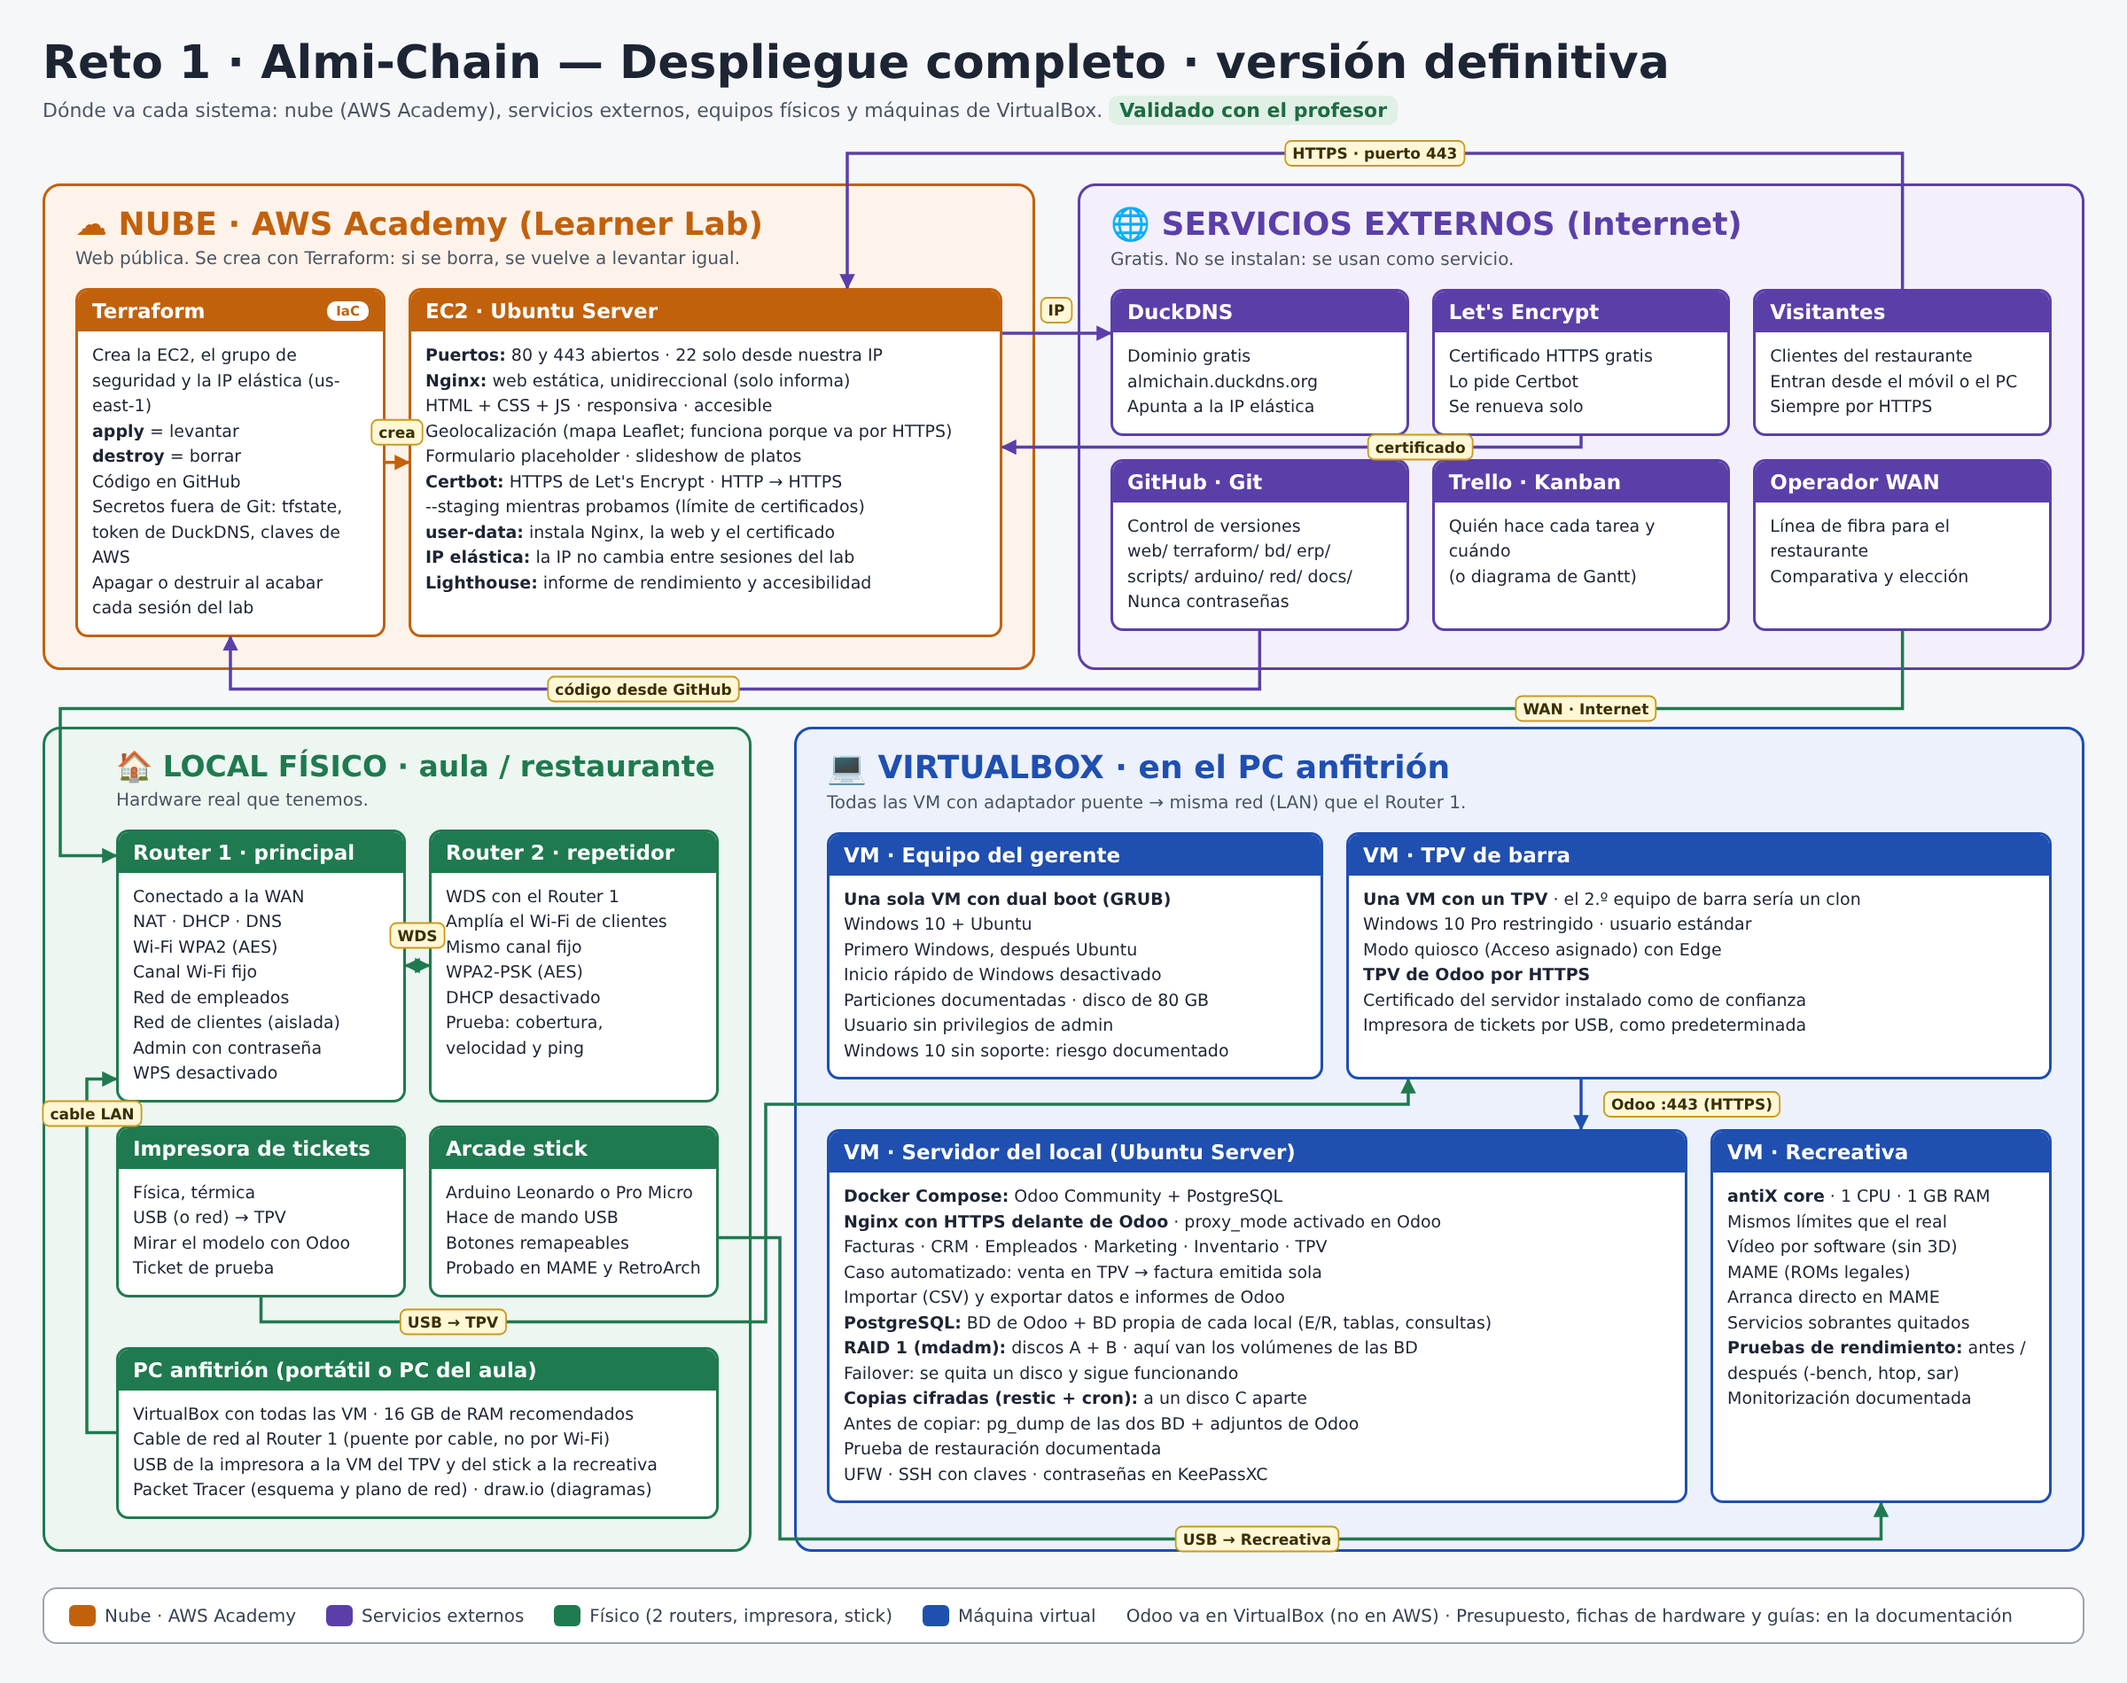
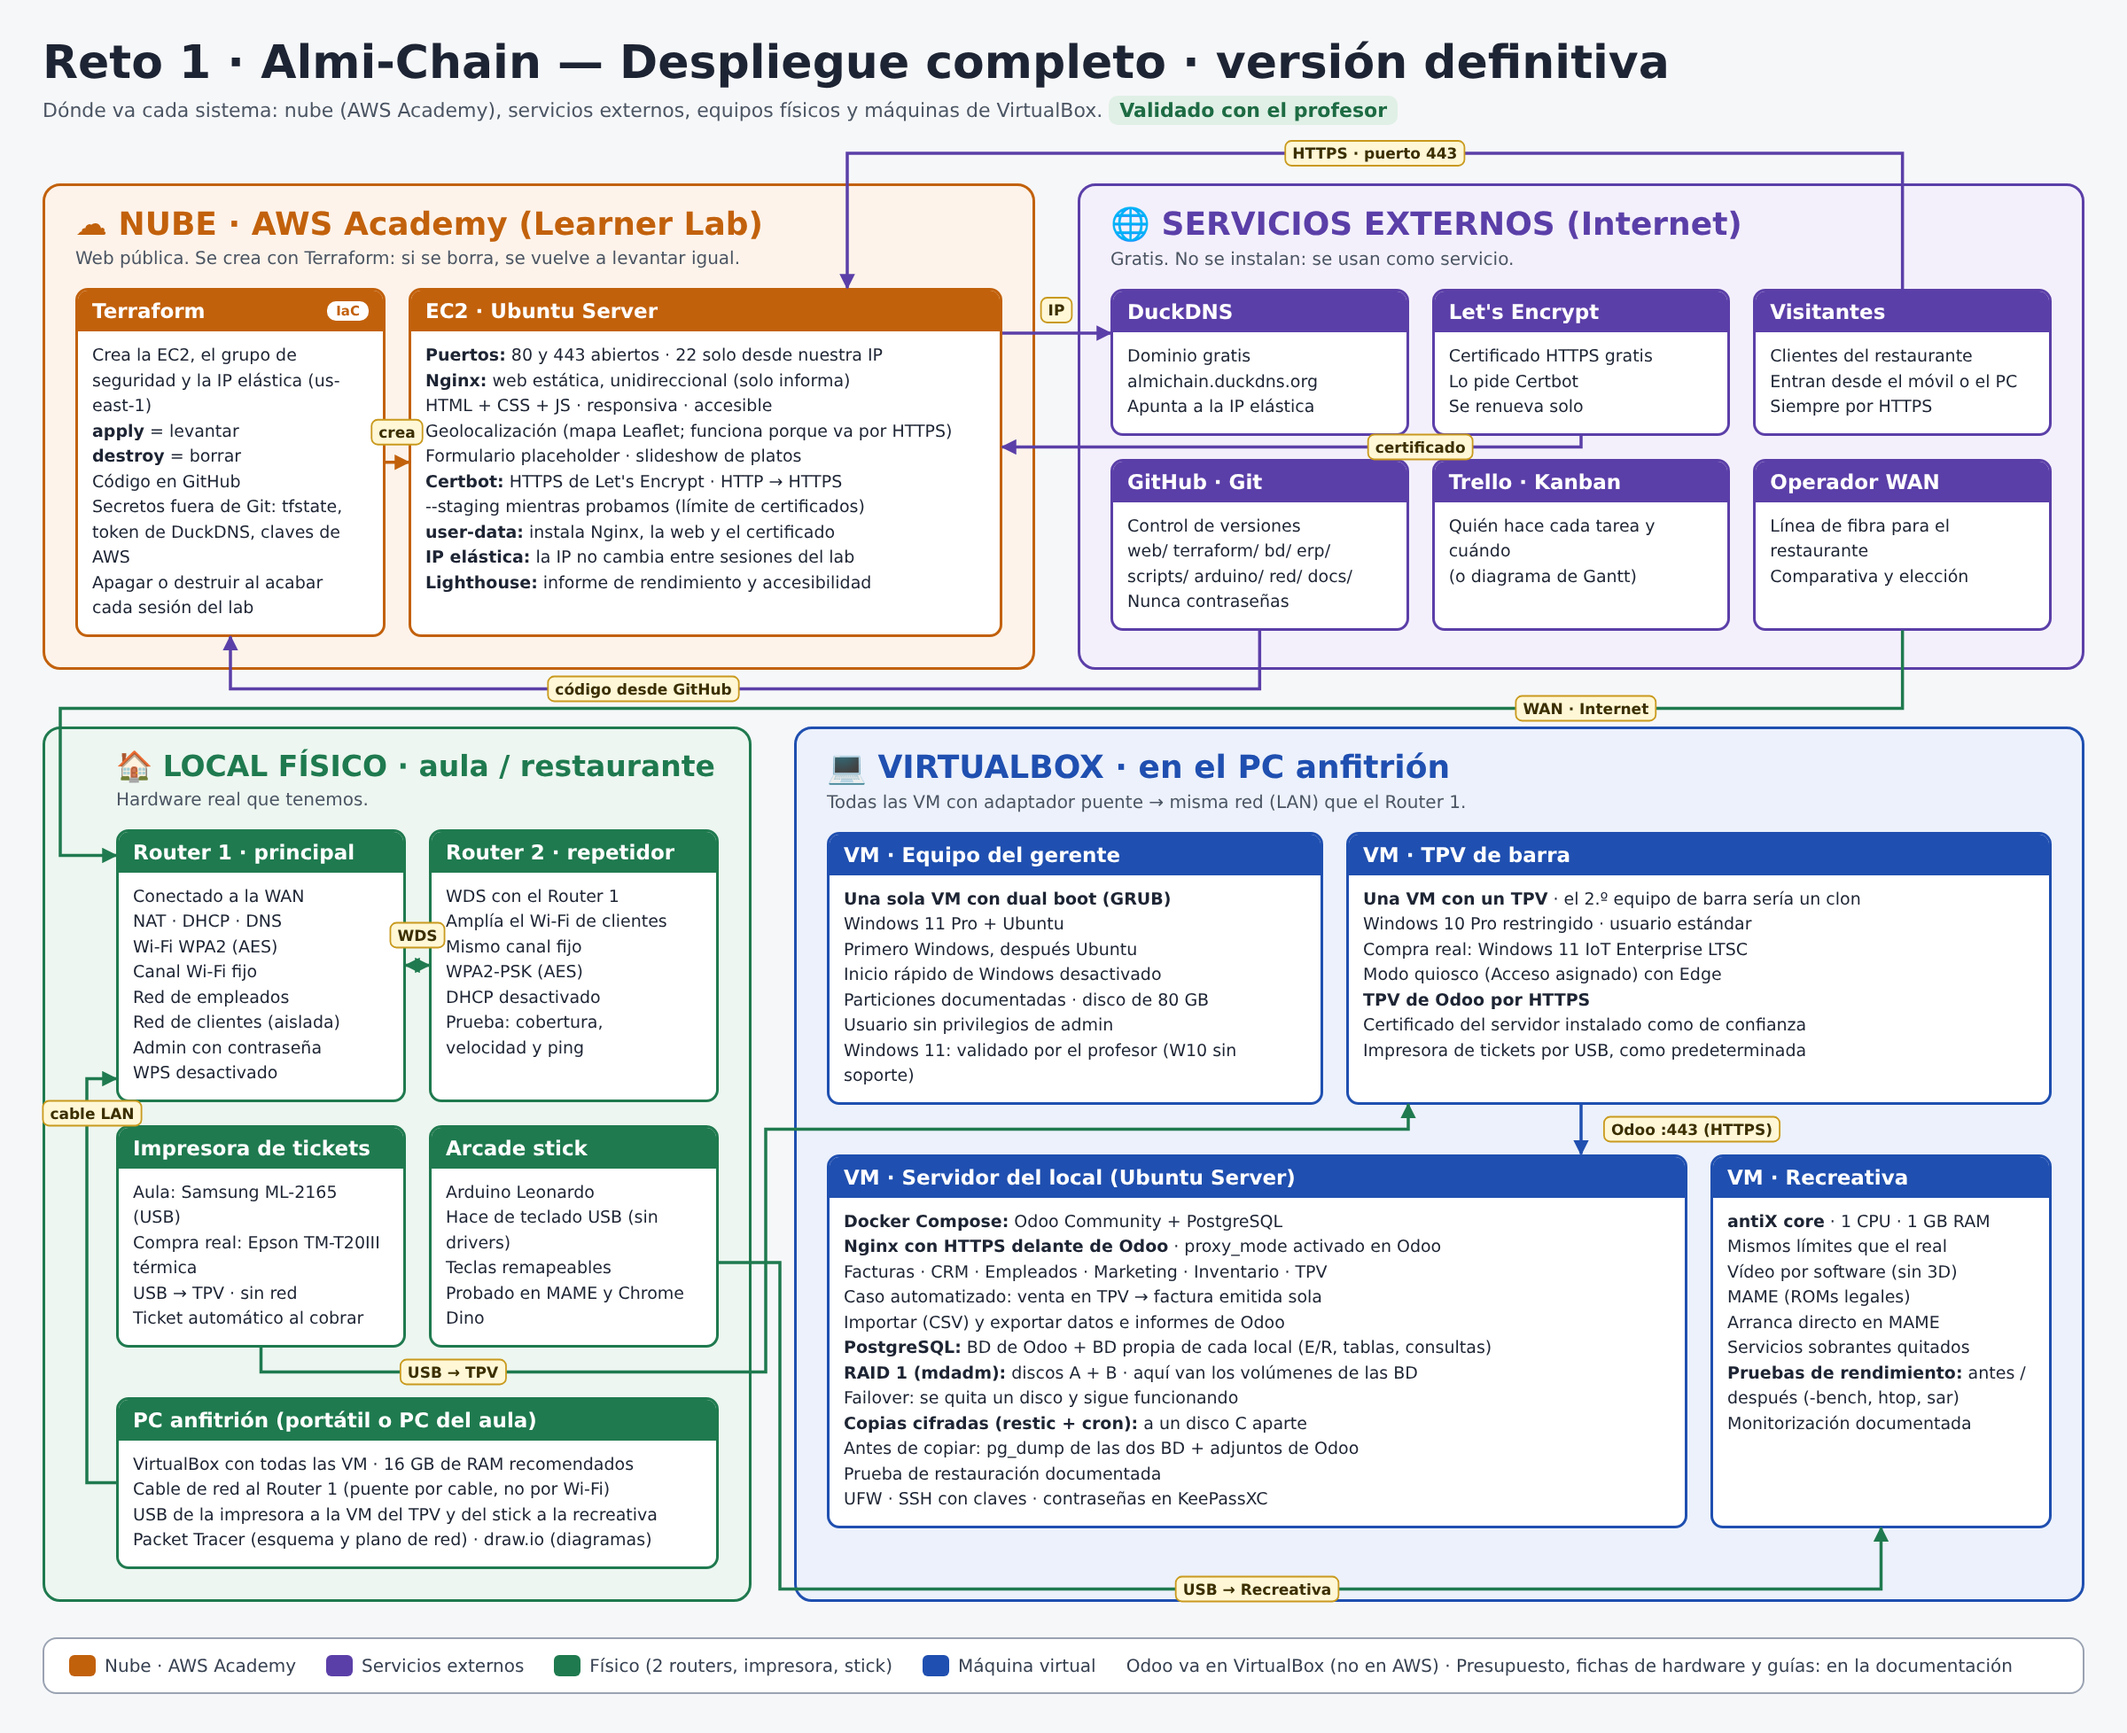
docs: cuadrar Windows, Ubuntu e impresora en todo el repo
- Esquema: gerente con Windows 11 Pro, TPV con Windows 10 Pro (compra real W11 IoT LTSC), impresora del aula y de la compra real, stick como teclado
- Presupuesto: qué se usa en el reto y qué en la compra real; Ubuntu 26.04 en el gerente
- TPV: tabla reto frente a compra real (Windows 10 Pro y Samsung ML-2165)

Claude-Session: https://claude.ai/code/session_012pbXinxToNpwGW4m48TvVM

Changed region(s): [[0.0, 0.0311, 0.9688, 0.9942], [0.9062, 0.0932, 0.9688, 0.1243]]

diff --git a/docs/presupuesto/fichas_hw_sw.md b/docs/presupuesto/fichas_hw_sw.md
@@ -30,9 +30,11 @@ El presupuesto detallado, sin IVA y con el IVA aparte, está en `presupuesto_loc
 
 El enunciado de 2022-2023 pide Windows 10, pero **Windows 10 dejó de tener soporte el 14/10/2025**. Desde entonces solo recibe parches de seguridad pagando las actualizaciones ampliadas (ESU): para empresas cuestan **61 $** el primer año (terminó el 13/10/2026), **122 $** el segundo y **244 $** el tercero, por equipo.
 
-Por eso el equipo decidió usar **Windows 11** en el gerente y en los TPV:
+Por eso, en la compra real, el equipo decidió usar **Windows 11** en el gerente y en los TPV:
 - **Seguridad por defecto:** sigue recibiendo actualizaciones gratis. Un TPV que cobra a clientes no puede llevar un sistema sin parches.
 - **Sin coste extra:** los equipos presupuestados ya lo traen, el del gerente con Windows 11 Pro y los TPV con Windows 11 IoT Enterprise LTSC (soporte hasta 2034 y pensado para equipos de función fija como un TPV). Así nos ahorramos el ESU.
+
+**En el reto (máquinas virtuales del aula):** el gerente se montó con **Windows 11 Pro** (validado por el profesor el 26/10/2026). El TPV se montó con **Windows 10 Pro**, porque así se hizo la VM en el aula; el usuario estándar, el quiosco y el certificado se configuran igual en las dos versiones. En la compra real, los TPV ya traen Windows 11 IoT Enterprise LTSC.
 
 ---
 
@@ -48,7 +50,7 @@ Por eso el equipo decidió usar **Windows 11** en el gerente y en los TPV:
 | **Monitor** | AOC 24B2XH de 23,8″, IPS Full HD |
 | **Precio** | 962,60 € + 90,99 € |
 
-**Software:** Windows 11 Pro y Ubuntu Desktop 24.04 LTS en arranque dual con GRUB, Microsoft Edge y Firefox, el navegador para entrar en Odoo y KeePassXC.
+**Software:** Windows 11 Pro y Ubuntu Desktop 26.04 LTS en arranque dual con GRUB, Microsoft Edge y Firefox, el navegador para entrar en Odoo y KeePassXC.
 
 **Por qué:** el i5 y los 16 GB sobran para ofimática y Odoo durante años. 512 GB dan para dos sistemas (unos 250 GB cada uno). La garantía y los repuestos de una gama profesional (ThinkCentre) son mejores que los de un equipo doméstico.
 
@@ -66,7 +68,7 @@ Por eso el equipo decidió usar **Windows 11** en el gerente y en los TPV:
 | **Sistema incluido** | Windows 11 IoT Enterprise LTSC |
 | **Precio** | 708,48 € cada uno |
 
-**Software:** Windows 11 (Pro en el reto; IoT Enterprise LTSC en la compra real), Edge en **modo quiosco** abriendo el TPV de Odoo por HTTPS, el certificado del servidor instalado como de confianza y el driver de la impresora Epson.
+**Software:** Windows 10 Pro en la VM del reto; Windows 11 IoT Enterprise LTSC en la compra real, Edge en **modo quiosco** abriendo el TPV de Odoo por HTTPS, el certificado del servidor instalado como de confianza y el driver de la impresora Epson.
 
 **Por qué:** un TPV todo en uno ocupa poco en la barra y aguanta grasa y golpes mejor que un PC con monitor. La pantalla táctil es más rápida para el camarero. Como Odoo funciona en el navegador, no hace falta más potencia.
 
@@ -170,8 +172,8 @@ Así queda la red según el plano: la fibra entra en el **rack** del despacho de
 
 | Software | Dónde | Licencia | Por qué |
 |---|---|---|---|
-| Windows 11 Pro / Windows 11 IoT Enterprise LTSC | Gerente, TPV | Incluida con el equipo (OEM) | Con soporte, a diferencia de Windows 10 |
-| Ubuntu Desktop / Server 24.04 LTS | Gerente, servidor | Libre (GPL) | Soporte hasta 2029 |
+| Windows 11 Pro / Windows 11 IoT Enterprise LTSC | Gerente, TPV | Incluida con el equipo (OEM) | Con soporte, a diferencia de Windows 10 (en el reto, la VM del TPV usa Windows 10 Pro) |
+| Ubuntu Desktop 26.04 LTS / Ubuntu Server 24.04 LTS | Gerente / servidor | Libre (GPL) | Soporte de 5 años (hasta 2031 y 2029) |
 | Odoo Community | Servidor | Libre (LGPL) | ERP y TPV en uno (lo justifica Alejandro) |
 | PostgreSQL | Servidor | Libre (licencia PostgreSQL) | Base de datos que usa Odoo |
 | Docker / Docker Compose | Servidor | Libre (Apache 2.0) | Despliegue reproducible |

diff --git a/sistemas/tpv-barra/README.md b/sistemas/tpv-barra/README.md
@@ -2,6 +2,15 @@
 
 Hardware, software y presupuesto de los 2 TPV Windows; cuentas restringidas (mínimos privilegios) e instalación de la impresora de tickets.
 
+> **Sistema y equipos del reto frente a la compra real**
+>
+> | | En el reto (VM del aula) | En la compra real ([presupuesto](../../docs/presupuesto/fichas_hw_sw.md)) |
+> | --- | --- | --- |
+> | TPV | **Una** VM con **Windows 10 Pro**; el segundo TPV sería un clon | 2 TPV todo en uno 10POS con **Windows 11 IoT Enterprise LTSC** |
+> | Impresora | **Samsung ML-2165** (láser, la disponible en el aula) | 2 **Epson TM-T20III** térmicas de 80 mm |
+>
+> El usuario estándar, el modo quiosco, el certificado y la impresión automática se configuran igual en las dos versiones de Windows y con cualquier impresora instalada como predeterminada.
+
 Pasos para reproducir
 
 1. Arrancar la máquina virtual del TPV.
@@ -15,9 +24,9 @@ Pasos para reproducir
 
 ## Impresora de tickets: impresión automática (Jon)
 
-Objetivo: al cobrar en el TPV, el ticket sale solo por la impresora térmica, sin que el camarero pulse nada.
+Objetivo: al cobrar en el TPV, el ticket sale solo por la impresora predeterminada, sin que el camarero pulse nada.
 
-1. **Impresora:** por USB al PC que ejecuta la VM del TPV. En VirtualBox (con la VM apagada): *Configuración → USB*, controlador USB 2.0 o 3.0 y un **filtro** con la impresora, para que pase sola a la VM. En Windows, instalar el driver **con la cuenta de administrador** (el usuario de la barra no tiene permisos), ponerla como **predeterminada**, papel de **80 mm** y márgenes mínimos.
+1. **Impresora:** por USB al PC que ejecuta la VM del TPV. En VirtualBox (con la VM apagada): *Configuración → USB*, controlador USB 2.0 o 3.0 y un **filtro** con la impresora, para que pase sola a la VM. En Windows, instalar el driver **con la cuenta de administrador** (el usuario de la barra no tiene permisos), ponerla como **predeterminada** y márgenes mínimos (con la Epson térmica, papel de **80 mm**; con la ML-2165 del aula, A4).
 2. **Odoo:** *Punto de venta → Configuración → Ajustes → Facturas y recibos* → **Impresión automática del recibo** y encabezado y pie personalizados.
 3. **Navegador sin diálogo de imprimir:** Odoo Community sin *IoT Box* imprime a través del navegador. Para que no salga la ventana de "Imprimir", Edge se abre con `--kiosk-printing`, que envía el ticket directamente a la impresora predeterminada. Acceso directo para el usuario de la barra, al iniciar sesión:
    ```
